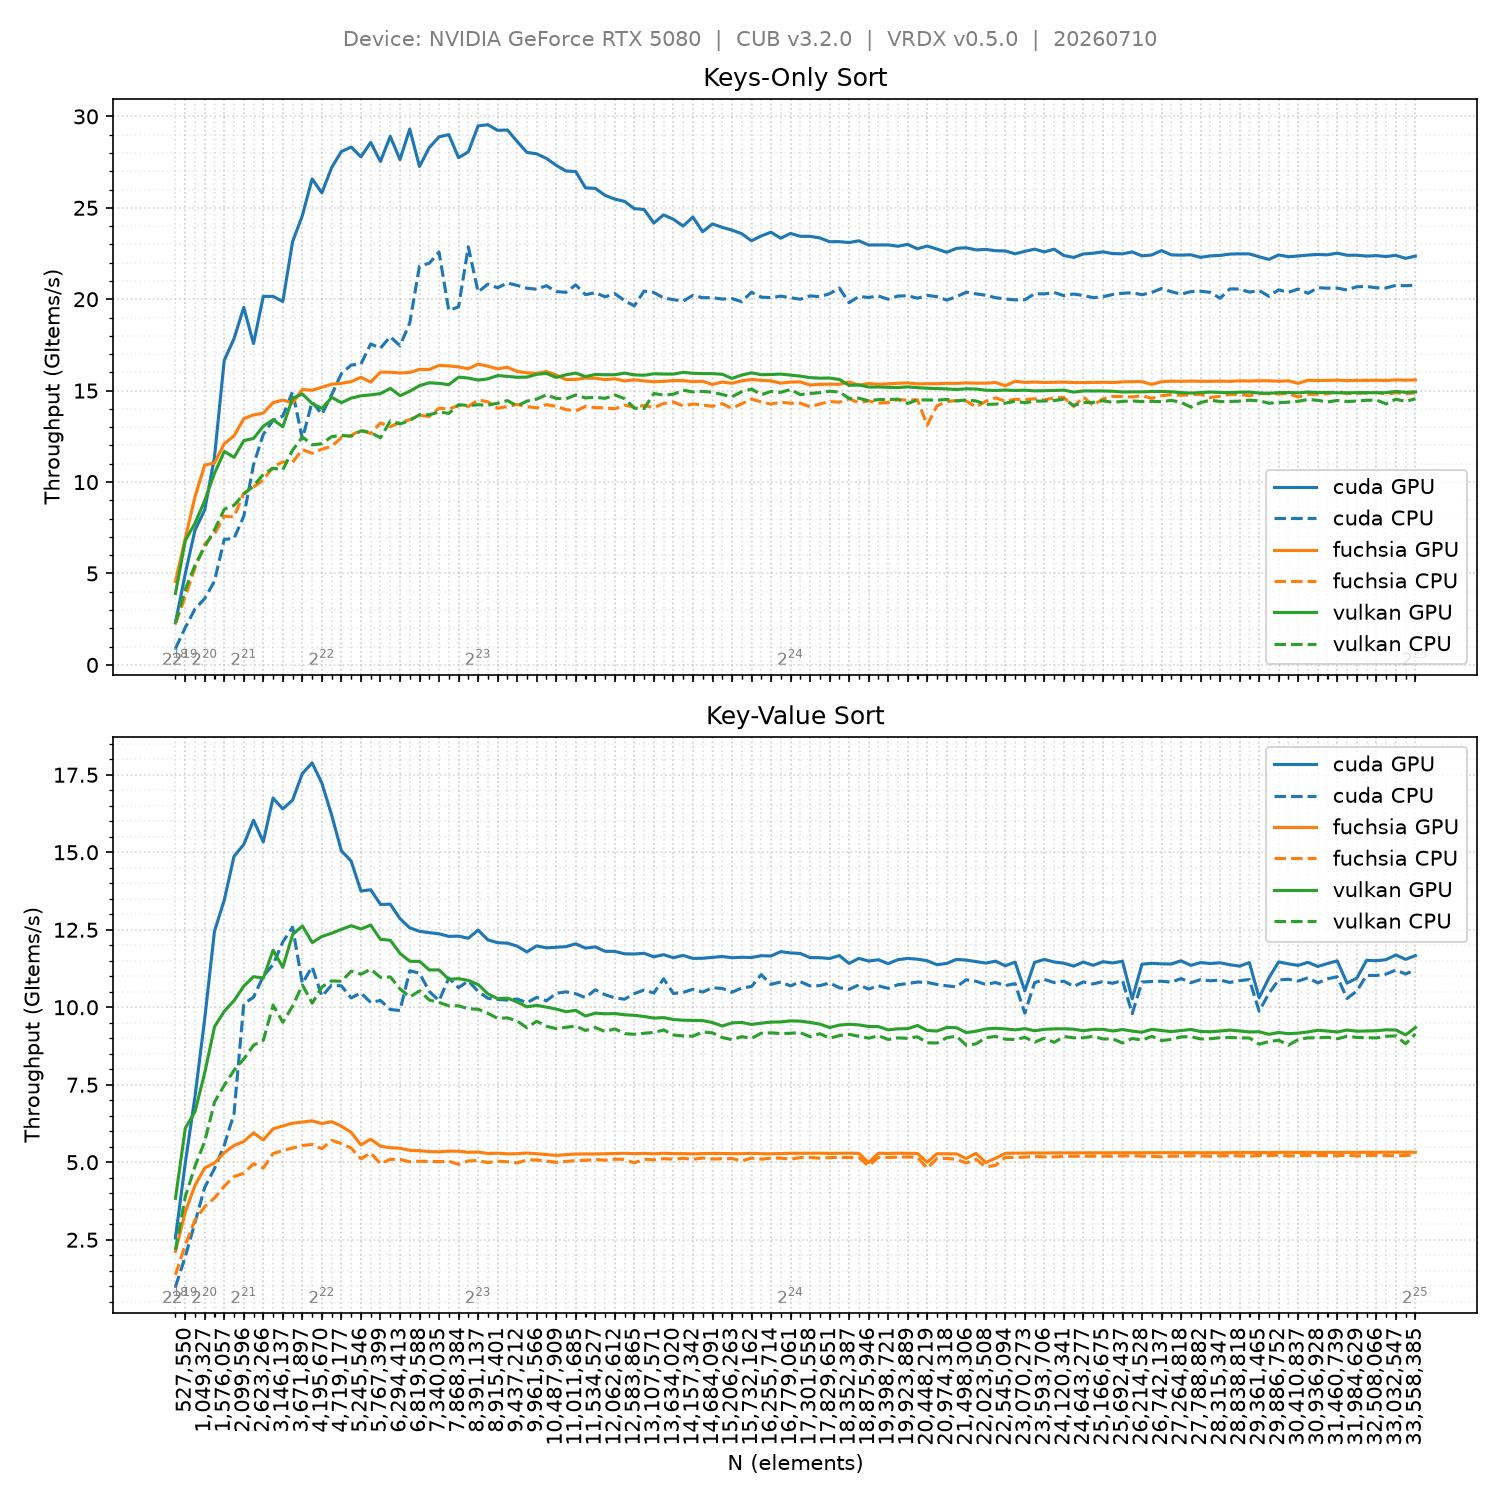
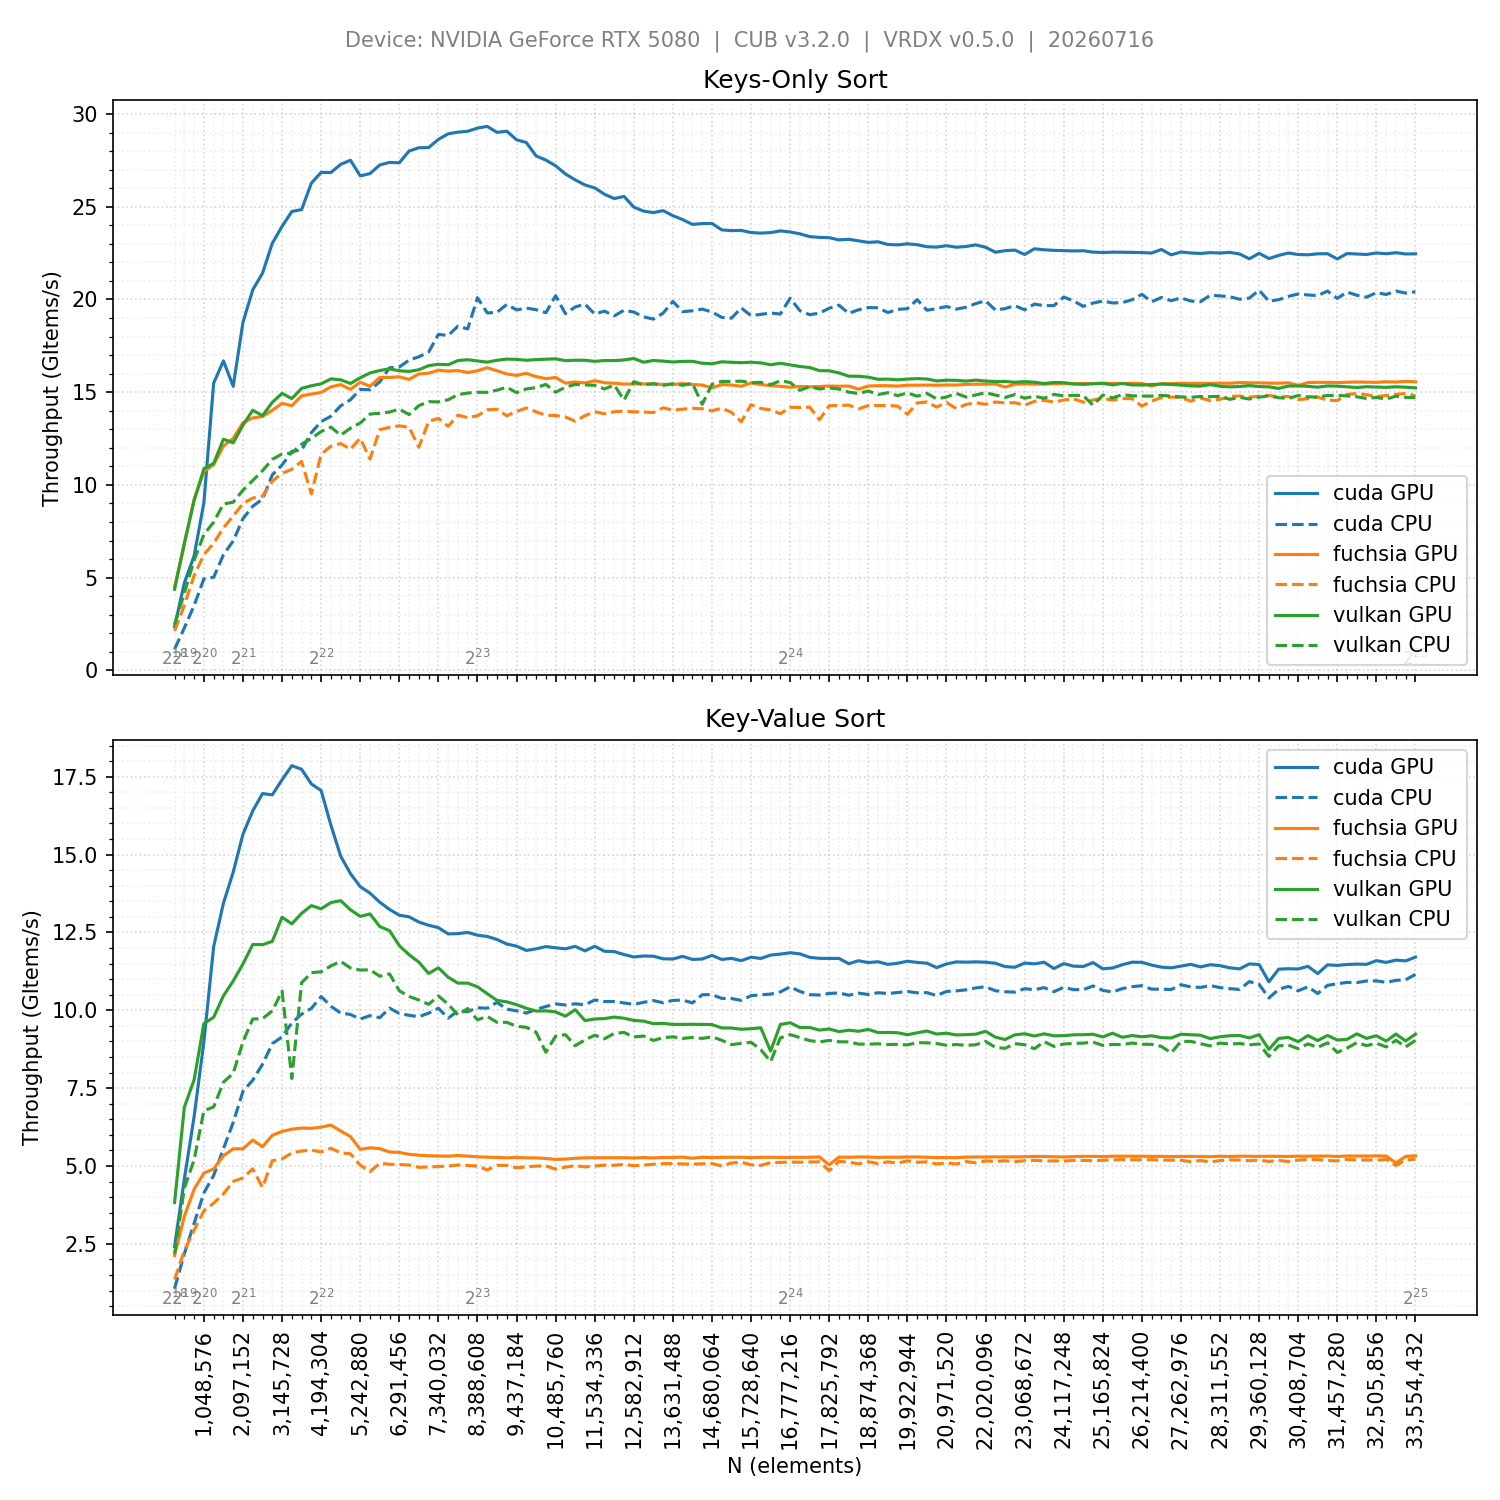
fix: measure real Vulkan GPU time by default instead of aliasing CPU time
Previously, GPU total_time only came from real timestamps when --timestamps
was passed; otherwise it silently fell back to cpu_time, making every
default-mode Vulkan benchmark row report identical GPU/CPU numbers (cuda and
fuchsia backends always measured real GPU time). Add a lightweight always-on
2-timestamp query pool (mirrors fuchsia_benchmark.cc) so total_time is always
accurate; the optional 15-slot query pool now only feeds the --timestamps
per-stage breakdown.

Also:
- bench: switch key-value sort from indirect (GPU-buffer element count) to
  direct (host-known exact count), dropping an extra buffer and copy per call,
  matching the keys-only path.
- bench: remove random N-offset jitter from the default sweep so runs are
  deterministic and reproducible.
- README: refresh benchmark numbers from the latest run.

diff --git a/bench/vulkan_benchmark.cc b/bench/vulkan_benchmark.cc
@@ -9,6 +9,7 @@ namespace {
 uint32_t Align(uint32_t a, uint32_t b) { return (a + b - 1) / b * b; }
 
 constexpr auto timestamp_count = 15;
+constexpr auto timing_query_count = 2;
 
 static VKAPI_ATTR VkBool32 VKAPI_CALL
 DebugCallback(VkDebugUtilsMessageSeverityFlagBitsEXT messageSeverity,
@@ -219,6 +220,14 @@ VulkanBenchmark::VulkanBenchmark(bool validation, bool timestamps) {
     vkCreateQueryPool(device_, &query_pool_info, NULL, &query_pool_);
   }
 
+  // lightweight always-on query pool for total GPU time, matching cuda/fuchsia benchmarks
+  VkQueryPoolCreateInfo timing_pool_info = {
+      .sType = VK_STRUCTURE_TYPE_QUERY_POOL_CREATE_INFO,
+      .queryType = VK_QUERY_TYPE_TIMESTAMP,
+      .queryCount = timing_query_count,
+  };
+  vkCreateQueryPool(device_, &timing_pool_info, NULL, &timing_pool_);
+
   // sorter
   VrdxSorterCreateInfo sorter_info = {
       .physicalDevice = physical_device_,
@@ -232,13 +241,12 @@ VulkanBenchmark::~VulkanBenchmark() {
 
   if (keys_.buffer) vmaDestroyBuffer(allocator_, keys_.buffer, keys_.allocation);
   if (values_.buffer) vmaDestroyBuffer(allocator_, values_.buffer, values_.allocation);
-  if (element_count_.buffer)
-    vmaDestroyBuffer(allocator_, element_count_.buffer, element_count_.allocation);
   if (storage_.buffer) vmaDestroyBuffer(allocator_, storage_.buffer, storage_.allocation);
   if (staging_.buffer) vmaDestroyBuffer(allocator_, staging_.buffer, staging_.allocation);
 
   vrdxDestroySorter(sorter_);
   vkDestroyQueryPool(device_, query_pool_, NULL);
+  vkDestroyQueryPool(device_, timing_pool_, NULL);
   vkDestroyFence(device_, fence_, NULL);
   vkDestroyCommandPool(device_, command_pool_, NULL);
   vmaDestroyAllocator(allocator_);
@@ -325,6 +333,9 @@ VulkanBenchmark::Results VulkanBenchmark::Sort(const std::vector<uint32_t>& keys
   // sort
   vkBeginCommandBuffer(command_buffer_, &command_buffer_begin_info);
 
+  vkCmdResetQueryPool(command_buffer_, timing_pool_, 0, timing_query_count);
+  vkCmdWriteTimestamp(command_buffer_, VK_PIPELINE_STAGE_TOP_OF_PIPE_BIT, timing_pool_, 0);
+
   VrdxSortInfo sort_info = {
       .elementCount = element_count,
       .keysBuffer = keys_.buffer,
@@ -332,6 +343,8 @@ VulkanBenchmark::Results VulkanBenchmark::Sort(const std::vector<uint32_t>& keys
       .queryPool = query_pool_,
   };
   vrdxCmdSort(command_buffer_, sorter_, &sort_info);
+
+  vkCmdWriteTimestamp(command_buffer_, VK_PIPELINE_STAGE_BOTTOM_OF_PIPE_BIT, timing_pool_, 1);
 
   vkEndCommandBuffer(command_buffer_);
   auto cpu_start = std::chrono::steady_clock::now();
@@ -361,24 +374,26 @@ VulkanBenchmark::Results VulkanBenchmark::Sort(const std::vector<uint32_t>& keys
   result.cpu_time =
       std::chrono::duration_cast<std::chrono::nanoseconds>(cpu_end - cpu_start).count();
 
+  auto ticks_to_ns = [&](uint64_t ticks) -> uint64_t {
+    return static_cast<uint64_t>(ticks * timestamp_period_);
+  };
+
+  uint64_t timing[timing_query_count];
+  vkGetQueryPoolResults(device_, timing_pool_, 0, timing_query_count, sizeof(timing), timing,
+                        sizeof(uint64_t), VK_QUERY_RESULT_64_BIT);
+  result.total_time = ticks_to_ns(timing[1] - timing[0]);
+
   if (query_pool_) {
     std::vector<uint64_t> timestamps(timestamp_count);
     vkGetQueryPoolResults(device_, query_pool_, 0, timestamps.size(),
                           timestamps.size() * sizeof(uint64_t), timestamps.data(), sizeof(uint64_t),
                           VK_QUERY_RESULT_64_BIT);
 
-    auto ticks_to_ns = [&](uint64_t ticks) -> uint64_t {
-      return static_cast<uint64_t>(ticks * timestamp_period_);
-    };
-
-    result.total_time = ticks_to_ns(timestamps[timestamp_count - 1] - timestamps[0]);
     for (int pass = 0; pass < 4; ++pass) {
       result.upsweep_ns += ticks_to_ns(timestamps[2 + 3 * pass] - timestamps[1 + 3 * pass]);
       result.spine_ns += ticks_to_ns(timestamps[3 + 3 * pass] - timestamps[2 + 3 * pass]);
       result.downsweep_ns += ticks_to_ns(timestamps[4 + 3 * pass] - timestamps[3 + 3 * pass]);
     }
-  } else {
-    result.total_time = result.cpu_time;
   }
   return result;
 }
@@ -388,15 +403,12 @@ VulkanBenchmark::Results VulkanBenchmark::SortKeyValue(const std::vector<uint32_
   uint32_t element_count = keys.size();
   uint32_t inout_size = Align(element_count * sizeof(uint32_t), min_buffer_alignment_);
 
-  Reallocate(&staging_, 2 * inout_size + sizeof(uint32_t),
+  Reallocate(&staging_, 2 * inout_size,
              VK_BUFFER_USAGE_TRANSFER_SRC_BIT | VK_BUFFER_USAGE_TRANSFER_DST_BIT, true);
   Reallocate(&keys_, inout_size,
              VK_BUFFER_USAGE_STORAGE_BUFFER_BIT | VK_BUFFER_USAGE_TRANSFER_SRC_BIT |
                  VK_BUFFER_USAGE_TRANSFER_DST_BIT);
   Reallocate(&values_, inout_size,
-             VK_BUFFER_USAGE_STORAGE_BUFFER_BIT | VK_BUFFER_USAGE_TRANSFER_SRC_BIT |
-                 VK_BUFFER_USAGE_TRANSFER_DST_BIT);
-  Reallocate(&element_count_, sizeof(uint32_t),
              VK_BUFFER_USAGE_STORAGE_BUFFER_BIT | VK_BUFFER_USAGE_TRANSFER_SRC_BIT |
                  VK_BUFFER_USAGE_TRANSFER_DST_BIT);
 
@@ -406,7 +418,6 @@ VulkanBenchmark::Results VulkanBenchmark::SortKeyValue(const std::vector<uint32_
 
   std::memcpy(staging_.map, keys.data(), element_count * sizeof(uint32_t));
   std::memcpy(staging_.map + inout_size, values.data(), element_count * sizeof(uint32_t));
-  std::memcpy(staging_.map + 2 * inout_size, &element_count, sizeof(uint32_t));
 
   VkCommandBufferBeginInfo command_buffer_begin_info = {
       .sType = VK_STRUCTURE_TYPE_COMMAND_BUFFER_BEGIN_INFO,
@@ -416,7 +427,7 @@ VulkanBenchmark::Results VulkanBenchmark::SortKeyValue(const std::vector<uint32_
 
   if (query_pool_) vkCmdResetQueryPool(command_buffer_, query_pool_, 0, timestamp_count);
 
-  // copy to keys/values/element count buffers
+  // copy to keys/values buffers
   VkBufferCopy keys_region = {
       .srcOffset = 0,
       .dstOffset = 0,
@@ -430,14 +441,6 @@ VulkanBenchmark::Results VulkanBenchmark::SortKeyValue(const std::vector<uint32_
       .size = inout_size,
   };
   vkCmdCopyBuffer(command_buffer_, staging_.buffer, values_.buffer, 1, &values_region);
-
-  VkBufferCopy element_count_region = {
-      .srcOffset = 2 * inout_size,
-      .dstOffset = 0,
-      .size = sizeof(uint32_t),
-  };
-  vkCmdCopyBuffer(command_buffer_, staging_.buffer, element_count_.buffer, 1,
-                  &element_count_region);
 
   vkEndCommandBuffer(command_buffer_);
 
@@ -453,15 +456,19 @@ VulkanBenchmark::Results VulkanBenchmark::SortKeyValue(const std::vector<uint32_
   // sort
   vkBeginCommandBuffer(command_buffer_, &command_buffer_begin_info);
 
+  vkCmdResetQueryPool(command_buffer_, timing_pool_, 0, timing_query_count);
+  vkCmdWriteTimestamp(command_buffer_, VK_PIPELINE_STAGE_TOP_OF_PIPE_BIT, timing_pool_, 0);
+
   VrdxSortInfo sort_info = {
       .elementCount = element_count,
-      .elementCountBuffer = element_count_.buffer,
       .keysBuffer = keys_.buffer,
       .valuesBuffer = values_.buffer,
       .storageBuffer = storage_.buffer,
       .queryPool = query_pool_,
   };
   vrdxCmdSort(command_buffer_, sorter_, &sort_info);
+
+  vkCmdWriteTimestamp(command_buffer_, VK_PIPELINE_STAGE_BOTTOM_OF_PIPE_BIT, timing_pool_, 1);
 
   vkEndCommandBuffer(command_buffer_);
   auto cpu_start = std::chrono::steady_clock::now();
@@ -500,24 +507,26 @@ VulkanBenchmark::Results VulkanBenchmark::SortKeyValue(const std::vector<uint32_
   result.cpu_time =
       std::chrono::duration_cast<std::chrono::nanoseconds>(cpu_end - cpu_start).count();
 
+  auto ticks_to_ns = [&](uint64_t ticks) -> uint64_t {
+    return static_cast<uint64_t>(ticks * timestamp_period_);
+  };
+
+  uint64_t timing[timing_query_count];
+  vkGetQueryPoolResults(device_, timing_pool_, 0, timing_query_count, sizeof(timing), timing,
+                        sizeof(uint64_t), VK_QUERY_RESULT_64_BIT);
+  result.total_time = ticks_to_ns(timing[1] - timing[0]);
+
   if (query_pool_) {
     std::vector<uint64_t> timestamps(timestamp_count);
     vkGetQueryPoolResults(device_, query_pool_, 0, timestamps.size(),
                           timestamps.size() * sizeof(uint64_t), timestamps.data(), sizeof(uint64_t),
                           VK_QUERY_RESULT_64_BIT);
 
-    auto ticks_to_ns = [&](uint64_t ticks) -> uint64_t {
-      return static_cast<uint64_t>(ticks * timestamp_period_);
-    };
-
-    result.total_time = ticks_to_ns(timestamps[timestamp_count - 1] - timestamps[0]);
     for (int pass = 0; pass < 4; ++pass) {
       result.upsweep_ns += ticks_to_ns(timestamps[2 + 3 * pass] - timestamps[1 + 3 * pass]);
       result.spine_ns += ticks_to_ns(timestamps[3 + 3 * pass] - timestamps[2 + 3 * pass]);
       result.downsweep_ns += ticks_to_ns(timestamps[4 + 3 * pass] - timestamps[3 + 3 * pass]);
     }
-  } else {
-    result.total_time = result.cpu_time;
   }
   return result;
 }

diff --git a/bench/bench.cc b/bench/bench.cc
@@ -1,7 +1,6 @@
 #include <fstream>
 #include <iomanip>
 #include <iostream>
-#include <random>
 #include <string>
 #include <vector>
 
@@ -19,7 +18,6 @@ constexpr uint32_t kNMin = 1u << 18;
 constexpr uint32_t kNMax = 1u << 25;
 constexpr int kNCount = 128;
 constexpr uint32_t kNStep = (kNMax - kNMin) / (kNCount - 1);
-constexpr uint32_t kNDisturbance = 4096;
 
 double toMs(uint64_t ns) { return static_cast<double>(ns) / 1e6; }
 double toGItemsS(uint32_t n, uint64_t ns) {
@@ -171,10 +169,8 @@ int main(int argc, char** argv) {
   if (result.count("n")) {
     ns = result["n"].as<std::vector<uint32_t>>();
   } else {
-    std::mt19937 rng(42);
-    std::uniform_int_distribution<uint32_t> disturb(0, kNDisturbance - 1);
     for (int i = 0; i < kNCount; ++i) {
-      ns.push_back(kNMin + static_cast<uint32_t>(i) * kNStep + disturb(rng));
+      ns.push_back(kNMin + static_cast<uint32_t>(i) * kNStep);
     }
   }
 

diff --git a/bench/vulkan_benchmark.h b/bench/vulkan_benchmark.h
@@ -45,11 +45,11 @@ class VulkanBenchmark : public BenchmarkBase {
   VkCommandBuffer command_buffer_ = VK_NULL_HANDLE;
   VkFence fence_ = VK_NULL_HANDLE;
   VkQueryPool query_pool_ = VK_NULL_HANDLE;
+  VkQueryPool timing_pool_ = VK_NULL_HANDLE;
 
   VrdxSorter sorter_ = VK_NULL_HANDLE;
   Buffer keys_;
   Buffer values_;
-  Buffer element_count_;
   Buffer storage_;
   Buffer staging_;
 };

diff --git a/README.md b/README.md
@@ -2,7 +2,7 @@
 
 Reduce-then-scan GPU radix sort, implemented as a single-file header-only Vulkan library. No additional dependencies.
 
-> **Note:** As of July 2026 (CUDA 13.2, CUB v3.2.0 Onesweep), CUB is faster by 1.50× on keys-only and 1.25× on key-value at N = 2^25. Still a practical choice for Vulkan-based workflows.
+> **Note:** As of July 2026 (CUDA 13.2, CUB v3.2.0 Onesweep), CUB is faster by 1.47× on keys-only and 1.27× on key-value at N = 2^25. Still a practical choice for Vulkan-based workflows.
 
 ## Requirements
 
@@ -74,10 +74,10 @@ Median throughput at N = 2^25. Ratios relative to this library (> 1× means the 
 
 | Sort type | This library (Vulkan) | Fuchsia (Vulkan) | CUB Onesweep (CUDA) |
 |---|---|---|---|
-| 32-bit keys only | 14.93 GItems/s | 15.59 GItems/s (1.04×) | 22.36 GItems/s (1.50×) |
-| 32-bit key-value | 9.35 GItems/s | 5.32 GItems/s (0.57×) | 11.67 GItems/s (1.25×) |
+| 32-bit keys only | 15.23 GItems/s | 15.56 GItems/s (1.02×) | 22.46 GItems/s (1.47×) |
+| 32-bit key-value | 9.24 GItems/s | 5.33 GItems/s (0.58×) | 11.71 GItems/s (1.27×) |
 
-Keys-only is now within 4% of [Fuchsia radix sort](https://github.com/juliusikkala/fuchsia_radix_sort) after the downsweep rework (splitting per-wave histogram accumulation from local offset lookup). Fuchsia is 1.76× slower on key-value — it packs pairs into a single 64-bit key, doubling memory traffic, while this library sorts the two buffers independently. Key-value still trails CUB by 1.25×, with room for a similar optimization.
+Keys-only is now within 2% of [Fuchsia radix sort](https://github.com/juliusikkala/fuchsia_radix_sort) after the downsweep rework (splitting per-wave histogram accumulation from local offset lookup). Fuchsia is 1.73× slower on key-value — it packs pairs into a single 64-bit key, doubling memory traffic, while this library sorts the two buffers independently. Key-value still trails CUB by 1.27×, with room for a similar optimization.
 
 ![Benchmark Result](media/results.png)
 
